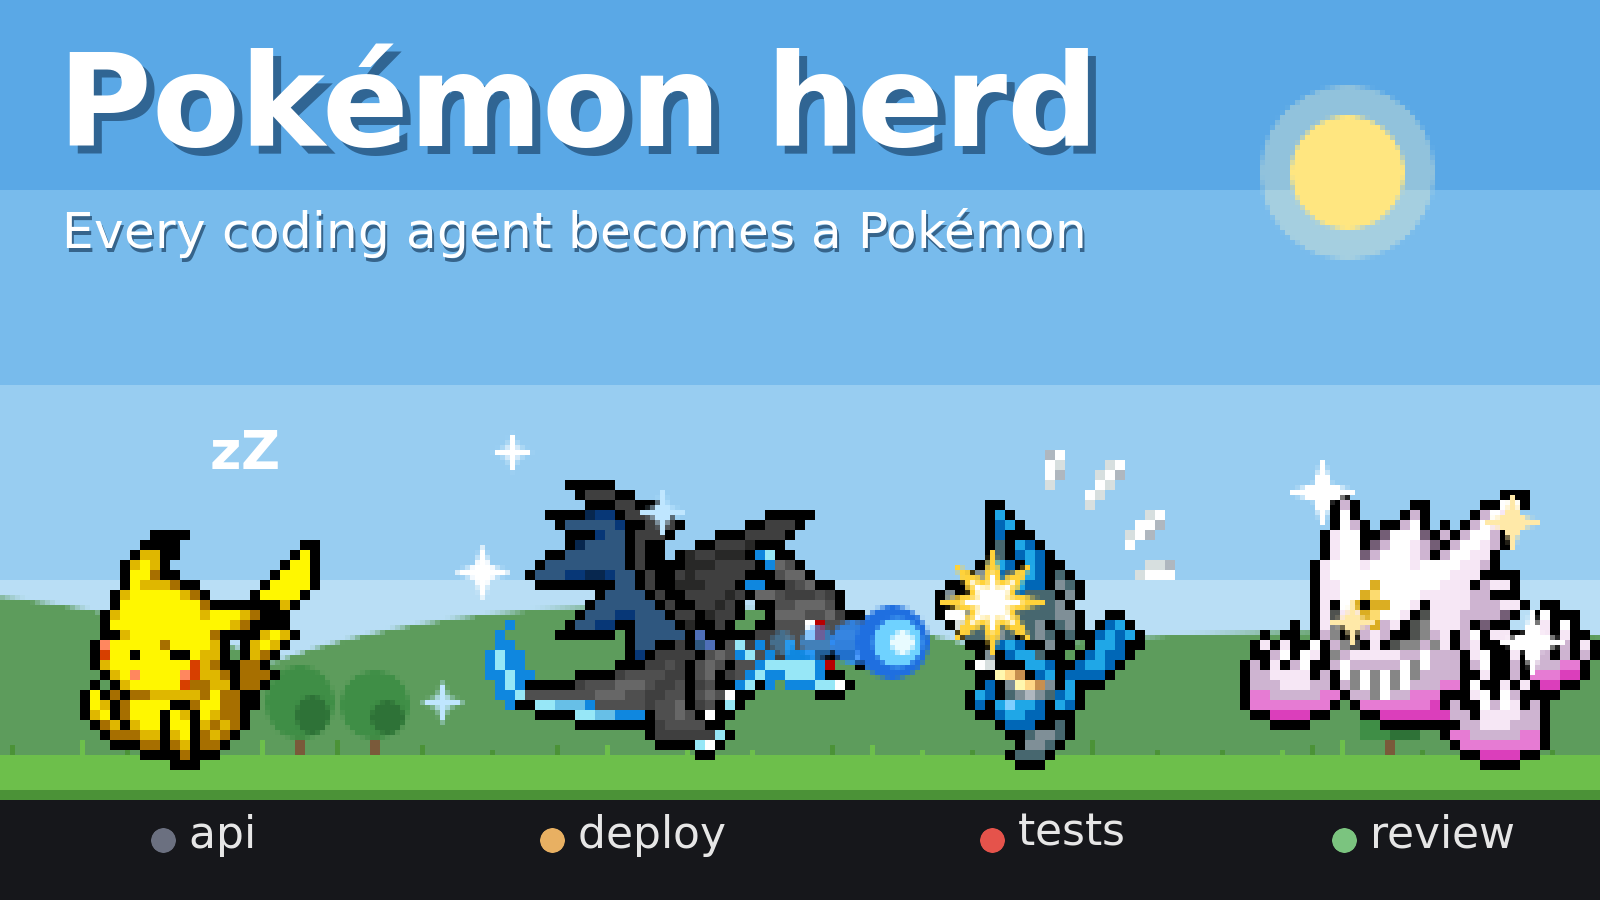
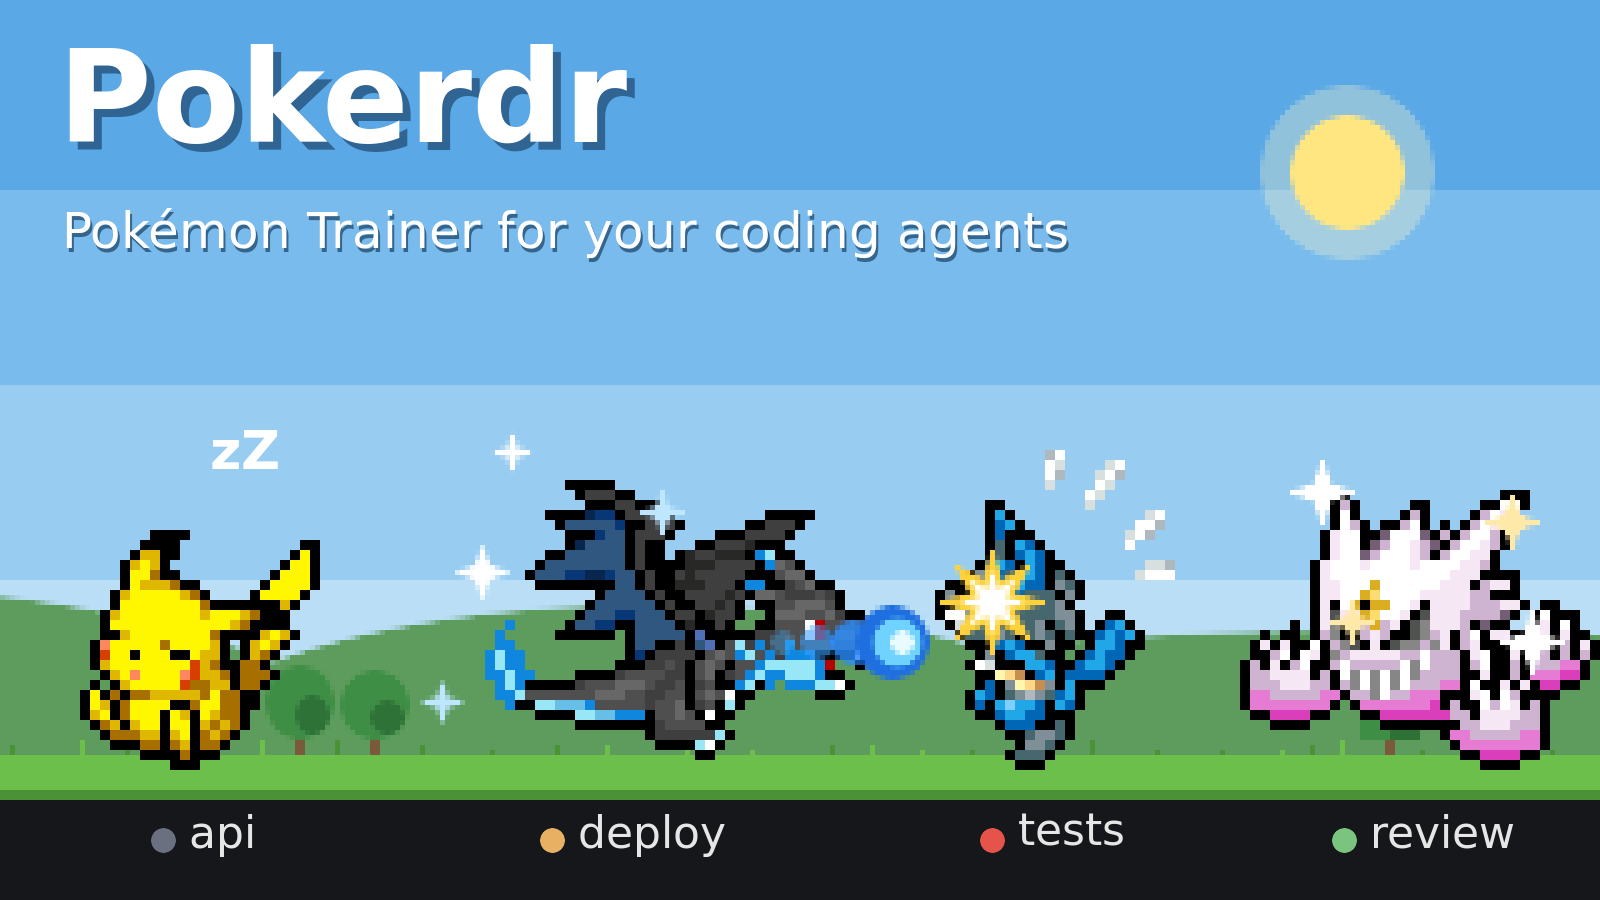
Catch rates as in Pokémon GO (base by stage, ball and Berry as a power, 1 in 10 flee after a miss); shown as Pokerdr: Pokémon Trainer (the id stays pokemon-herd)

Changed region(s): [[0.0625, 0.0311, 0.6875, 0.1867], [0.0312, 0.2178, 0.6875, 0.3111], [0.0312, 0.1556, 0.0625, 0.1867]]

diff --git a/mods/pokemon-herd/trainer.js b/mods/pokemon-herd/trainer.js
@@ -1,6 +1,7 @@
 // The trainer's side: Poké Balls and catching, natures, the Pokédex, the day's Research and
 // legendary Pokémon. Pure.
-import { WALKABLE, REGIONS, regionOf, nameOf, isWalkable, hasShiny } from "./dex.js";
+import { WALKABLE, REGIONS, regionOf, nameOf, isWalkable, hasShiny, evolutionsOf } from "./dex.js";
+import { EVOLVES_FROM } from "./species.js";
 import { typeOf, TYPES } from "./types.js";
 
 // ---- legendary and mythical Pokémon ------------------------------------------------
@@ -30,7 +31,9 @@ export function wildPick(taken, rnd = Math.random, how = {}) {
 
 // ---- Poké Balls ---------------------------------------------------------------------
 export const BALLS = ["poke-ball", "great-ball", "ultra-ball", "master-ball"];
-const BALL_RATE = { "poke-ball": 0.45, "great-ball": 0.65, "ultra-ball": 0.85, "master-ball": 1 };
+// As in Pokémon GO: each species has a base rate, and a better ball or a Berry raises it as a
+// power: chance = 1 − (1 − base)^(ball × berry). Great ×1.5, Ultra ×2 (the Master Ball never fails).
+const BALL_MUL = { "poke-ball": 1, "great-ball": 1.5, "ultra-ball": 2, "master-ball": Infinity };
 // Berries fed before the ball (Pokémon GO's): how much likelier, and whether a catch brings twice the gift.
 export const BAIT = {
   "razz-berry": { rate: 1.5 },
@@ -38,23 +41,33 @@ export const BAIT = {
   "pinap-berry": { rate: 1, double: true },
   "silver-pinap-berry": { rate: 1.8, double: true },
 };
-// How likely `ball` catches `pick` ({ dex, shiny }), with `bait` fed first: a shiny is warier, a
-// legendary much more so. The Master Ball never fails.
+// A species' base rate, by where it stands in its line (GO's are much like this): a first stage
+// 30%, one on its own 20%, a middle stage 15%, a final stage 10%, a legendary 3%. A shiny is as
+// easy as any other (as in GO).
+export function baseRate(dex) {
+  if (isLegendary(dex)) return LEGEND_RATE;
+  const pre = EVOLVES_FROM[dex] !== undefined, next = evolutionsOf(dex).length > 0;
+  return !pre ? (next ? 0.3 : 0.2) : next ? 0.15 : 0.1;
+}
+// How likely `ball` catches `pick` ({ dex }), with `bait` fed first.
 export function catchChance(ball, pick, bait = null) {
-  const rate = BALL_RATE[ball];
-  if (!rate) return 0;
-  if (rate >= 1) return 1;
-  return Math.min(0.97, rate * (pick.shiny ? 0.6 : 1) * (isLegendary(pick.dex) ? LEGEND_RATE : 1) * (BAIT[bait]?.rate ?? 1));
+  const mul = BALL_MUL[ball];
+  if (!mul) return 0;
+  if (mul === Infinity) return 1;
+  return 1 - (1 - baseRate(pick.dex)) ** (mul * (BAIT[bait]?.rate ?? 1));
 }
 // A legendary: about 15 balls before it's gone (LEGEND_THROWS), each one far less likely to hold
 // it: over all 15, Poké Balls catch it 4 times in 10, Ultra Balls 6 in 10, Ultra Balls with
 // Golden Razz Berries 9 in 10. The rest of the time it gets away.
-export const LEGEND_RATE = 0.075;
+export const LEGEND_RATE = 0.03;
 export const LEGEND_THROWS = 15;
-// One throw: { caught, shakes } (the ball shakes three times before it clicks; fewer when it breaks out).
+// Any other breaks free and flees 1 time in 10 (GO's usual), else walks on for another ball.
+export const FLEE = 0.1;
+// One throw: { caught, shakes, fled } (the ball shakes three times before it clicks; fewer when it breaks out).
 export function throwBall(ball, pick, rnd = Math.random, bait = null) {
   const caught = rnd() < catchChance(ball, pick, bait);
-  return { caught, shakes: caught ? 3 : Math.floor(rnd() * 3) };
+  const shakes = caught ? 3 : Math.floor(rnd() * 3);
+  return { caught, shakes, fled: !caught && !isLegendary(pick.dex) && rnd() < FLEE };
 }
 // Which ball a click throws (`items`: the Bag's counts), or null: the one chosen in the Bag
 // (`chosen`, any, the Master Ball too) while there are some; else the cheapest first, but the best

diff --git a/tests/trainer.test.js b/tests/trainer.test.js
@@ -29,16 +29,18 @@ test("wildPick: legendary only when asked or very rarely", () => {
   assert.ok(isLegendary(l.dex) && l.legend);
 });
 
-test("catching: the Master Ball never fails; shinies and legendaries are harder", () => {
+test("catching: the Master Ball never fails; legendaries are much harder", () => {
   assert.equal(catchChance("master-ball", { dex: 150 }), 1);
-  assert.ok(catchChance("poke-ball", { dex: 25 }) > catchChance("poke-ball", { dex: 25, shiny: true }));
+  assert.equal(catchChance("poke-ball", { dex: 25 }), catchChance("poke-ball", { dex: 25, shiny: true })); // as in GO
   assert.ok(catchChance("ultra-ball", { dex: 150 }) < 0.3);
   assert.ok(catchChance("great-ball", { dex: 25 }) > catchChance("poke-ball", { dex: 25 }));
   assert.equal(catchChance("berry", { dex: 25 }), 0);
-  assert.deepEqual(throwBall("master-ball", { dex: 150 }, () => 0.99), { caught: true, shakes: 3 });
+  assert.deepEqual(throwBall("master-ball", { dex: 150 }, () => 0.99), { caught: true, shakes: 3, fled: false });
   const miss = throwBall("poke-ball", { dex: 25 }, () => 0.99);
   assert.equal(miss.caught, false);
   assert.ok(miss.shakes < 3);
+  assert.equal(miss.fled, false);
+  assert.equal(throwBall("poke-ball", { dex: 25 }, () => 0.05).caught, true);
 });
 
 test("ballFor: cheapest first; the best for a shiny; the Master Ball only for a legendary", () => {
@@ -206,4 +208,22 @@ test("a caught Pokémon remembers its ball", () => {
   assert.equal(p.ball, "master-ball");
   assert.equal(loadPicks({ v: 2, panes: { b: p } }).panes.b.ball, "master-ball");
   assert.equal(loadPicks({ v: 2, panes: { b: { ...p, ball: "berry" } } }).panes.b.ball, undefined);
+});
+
+import { baseRate, FLEE } from "../mods/pokemon-herd/trainer.js";
+test("catch rates as in Pokémon GO: base by stage, the ball and Berry as a power", () => {
+  assert.equal(baseRate(1), 0.3); // Bulbasaur, a first stage
+  assert.equal(baseRate(2), 0.15); // Ivysaur
+  assert.equal(baseRate(3), 0.1); // Venusaur
+  assert.equal(baseRate(128), 0.2); // Tauros, on its own
+  assert.equal(baseRate(150), 0.03);
+  assert.ok(Math.abs(catchChance("poke-ball", { dex: 1 }) - 0.3) < 1e-9);
+  assert.ok(Math.abs(catchChance("ultra-ball", { dex: 1 }) - 0.51) < 1e-9);
+  assert.ok(Math.abs(catchChance("great-ball", { dex: 3 }, "razz-berry") - (1 - 0.9 ** 2.25)) < 1e-9);
+  // A wild one that isn't legendary sometimes flees after a miss; a legendary doesn't (it has 15 balls).
+  const seq = (...xs) => () => xs.shift();
+  assert.equal(throwBall("poke-ball", { dex: 3 }, seq(0.9, 0.5, 0.05)).fled, true); // missed, then fled
+  assert.equal(throwBall("poke-ball", { dex: 3 }, seq(0.9, 0.5, 0.5)).fled, false);
+  assert.equal(throwBall("poke-ball", { dex: 150 }, seq(0.9, 0.5, 0.05)).fled, false);
+  assert.equal(FLEE, 0.1);
 });

diff --git a/mods/pokemon-herd/main.js b/mods/pokemon-herd/main.js
@@ -1816,7 +1816,7 @@ export default class PokemonHerd extends View {
     const upd = this.newerVersion();
     return [
       panel(
-        line("Pokémon herd", this.updating === "running" ? "Downloading…"
+        line("Pokerdr", this.updating === "running" ? "Downloading…"
           : this.updating === "done" ? `Updated ${(this.updated ?? []).map((u) => `mods/${u.dir.split("/").pop()} to ${u.version}`).join(", ")}. It reloads by itself; if this still says ${VERSION}, restart Herdr.`
           : this.updating ? `Couldn't update: ${this.updating}`
           : upd ? `${upd} is out; you have ${VERSION}. Your Pokémon, Bag and badges stay.`
@@ -2697,7 +2697,7 @@ export default class PokemonHerd extends View {
               .child(div().text_size(11.5).text_color(t.dim).child(on ? "Thrown at every wild Pokémon, till you run out (then Auto)." : "Auto: the cheapest, the best for a shiny, a Master Ball only for a legendary. Right-click a wild one to switch.")));
           })
           .when(ITEMS[sel].kind === "ball", (el) => el
-            .child(div().text_size(12).text_color(t.muted).child(`Odds with this ball: ${Math.round(100 * catchChance(sel, { dex: 25 }))}% for most, ${Math.round(100 * catchChance(sel, { dex: 25, shiny: true }))}% for a shiny, ${Math.round(100 * catchChance(sel, { dex: 150 }))}% for a legendary.`))
+            .child(div().text_size(12).text_color(t.muted).child(`Odds a throw: ${Math.round(100 * catchChance(sel, { dex: 1 }))}% for a first stage (Bulbasaur), ${Math.round(100 * catchChance(sel, { dex: 3 }))}% for a final one (Venusaur), ${Math.round(100 * catchChance(sel, { dex: 150 }))}% for a legendary. A miss: 1 in 10 flee.`))
             .child(div().text_size(11.5).text_color(t.dim).child(b.items[sel] ? "Click a wild Pokémon on the strip once you have its gift: a ball over its head means one is ready." : "None in the Bag: the Shop has them, and the day's Research gives some.")))
           // A Berry for catching: set it to be fed before each ball (one each time, while there are some).
           .when(ITEMS[sel].kind === "bait", (el) => {

diff --git a/scripts/make-demos.py b/scripts/make-demos.py
@@ -600,10 +600,10 @@ def preview(tmp):
     big = ["-filter", "point", "-resize", f"{Z * 100}%"]
     text = ["-gravity", "northwest", "-font", BOLD]
     # The name, white with a dark drop shadow; the line under it.
-    text += ["-fill", "#0b2a4a88", "-pointsize", "128", "-annotate", "+66+52", "Pokémon herd",
-             "-fill", "#ffffff", "-pointsize", "128", "-annotate", "+58+44", "Pokémon herd",
-             "-font", FONT, "-fill", "#0b2a4a99", "-pointsize", "50", "-annotate", "+64+212", "Every coding agent becomes a Pokémon",
-             "-fill", "#ffffff", "-pointsize", "50", "-annotate", "+62+208", "Every coding agent becomes a Pokémon"]
+    text += ["-fill", "#0b2a4a88", "-pointsize", "128", "-annotate", "+66+52", "Pokerdr",
+             "-fill", "#ffffff", "-pointsize", "128", "-annotate", "+58+44", "Pokerdr",
+             "-font", FONT, "-fill", "#0b2a4a99", "-pointsize", "50", "-annotate", "+64+212", "Pokémon Trainer for your coding agents",
+             "-fill", "#ffffff", "-pointsize", "50", "-annotate", "+62+208", "Pokémon Trainer for your coding agents"]
     # Over each head: zZ (asleep), the agents' names on the soil.
     py = (ground - pika.height()) * Z
     text += ["-font", BOLD, "-fill", "#ffffff", "-pointsize", "54", "-annotate", f"+{X['pika'] * Z + 10}+{py - 100}", "zZ"]

diff --git a/README.md b/README.md
@@ -1,8 +1,9 @@
-# herdr-pokemon
+# Pokerdr: Pokémon Trainer
 
 Every coding agent in [Herdr](https://herdr.dev) becomes a pixel-art Pokémon. It walks while
 its agent works, naps when it's idle, and calls for you when it's blocked. Click one to jump
-to its agent.
+to its agent. And it's a game: your agents' work earns Pokédollars, wild Pokémon walk by to
+catch, the Pokédex fills, three Research tasks a day pay out, and legendaries wait to be caught.
 
 <p align="center"><img src="docs/demo/battle.gif" alt="On a bright day Mega Charizard X and Lucario trade blows, then its blue fireball knocks Lucario back; Pikachu sleeps through it and a shiny Mega Gengar sparkles" width="592"></p>
 

diff --git a/RECIPE.md b/RECIPE.md
@@ -1,4 +1,4 @@
-# Pokémon herd
+# Pokerdr: Pokémon Trainer
 
 Every coding agent becomes a pixel-art Pokémon (pokemon-herd) on a strip of ground: it walks
 while its agent works, naps when it's idle, and calls for you with a red "!" when it's blocked.
@@ -7,7 +7,7 @@ with Poké Balls and Berries, the Pokédex fills region by region, three Researc
 out and call a legendary over, and your team evolves, makes friends and hunts shinies. 974
 species, regional forms, Mega Evolution, and a Pokémon Sidebar with your agents as cards.
 
-![Pokémon herd](preview.png)
+![Pokerdr: Pokémon Trainer](preview.png)
 
 ## After installing it, tell the user how to use it
 
